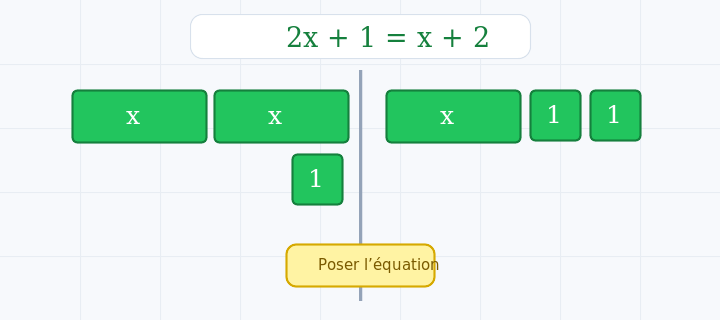
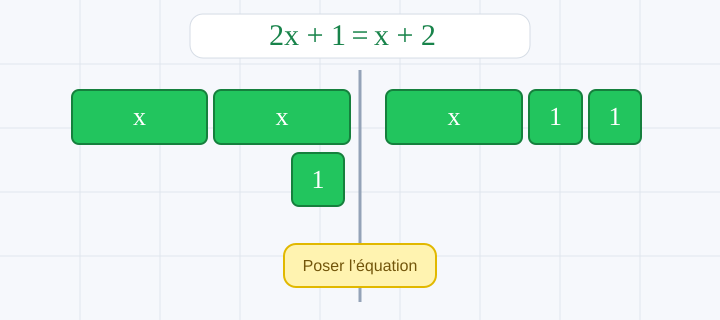
Remplacer les miniatures par des vues réelles

diff --git a/assets/js/catalogue-refonte-data.js b/assets/js/catalogue-refonte-data.js
@@ -161,7 +161,7 @@ window.MATHSGO_CATALOGUE = {
       "primaryGroup": "manipuler",
       "collections": ["tuiles-algebriques"],
       "tags": ["tuiles-algebriques", "equation", "premier-degre", "balance", "manipulation"],
-      "thumbnail": "assets/img/thumbnails/tuiles-algebriques/plateau-equations.png?v=1",
+      "thumbnail": "assets/img/thumbnails/tuiles-algebriques/plateau-equations.png?v=2",
       "cardDescription": "Poser puis résoudre une équation du premier degré en manipulant les deux membres."
     },
     "outils/detective_des_grandeurs_additive__1.pdf": { "primaryNotion": "schemas-barres", "collections": [], "tags": ["schema-barres", "resolution-problemes", "enquete"] },
@@ -262,7 +262,7 @@ window.MATHSGO_CATALOGUE = {
       "primaryGroup": "manipuler",
       "collections": [],
       "tags": ["statistiques", "mediane", "moyenne", "etendue", "donnees"],
-      "thumbnail": "assets/img/thumbnails/notions/stats-city.svg?v=1",
+      "thumbnail": "assets/img/thumbnails/notions/stats-city.png?v=2",
       "cardDescription": "Ranger et construire une ville de données pour travailler médiane, moyenne et étendue."
     },
     "outils/plateaux_manipulation/moyennes.html": {
@@ -278,7 +278,7 @@ window.MATHSGO_CATALOGUE = {
       "primaryGroup": "manipuler",
       "collections": [],
       "tags": ["numeration", "entiers", "valeur-position", "multiplier", "diviser"],
-      "thumbnail": "assets/img/thumbnails/numeration/glisse-entiers.svg?v=1",
+      "thumbnail": "assets/img/thumbnails/numeration/glisse-entiers.png?v=2",
       "cardDescription": "Faire glisser les chiffres dans le tableau de numération et visualiser les changements de valeur."
     },
     "outils/plateaux_manipulation/glisse_nombres_decimaux.html": {
@@ -286,7 +286,7 @@ window.MATHSGO_CATALOGUE = {
       "primaryGroup": "manipuler",
       "collections": [],
       "tags": ["numeration", "decimaux", "valeur-position", "dixiemes", "centiemes"],
-      "thumbnail": "assets/img/thumbnails/numeration/glisse-decimaux.svg?v=1",
+      "thumbnail": "assets/img/thumbnails/numeration/glisse-decimaux.png?v=2",
       "cardDescription": "Déplacer les chiffres de part et d’autre de la virgule dans un tableau de numération décimale."
     },
     "outils/plateaux_manipulation/numeration_decimale.html": {
@@ -294,7 +294,7 @@ window.MATHSGO_CATALOGUE = {
       "primaryGroup": "manipuler",
       "collections": [],
       "tags": ["numeration", "decimaux", "unites", "dixiemes", "centiemes", "fractions"],
-      "thumbnail": "assets/img/thumbnails/numeration/plateau-decimal.svg?v=1",
+      "thumbnail": "assets/img/thumbnails/numeration/plateau-decimal.png?v=2",
       "cardDescription": "Couper et fusionner unités, dixièmes et centièmes pour construire les écritures décimales et fractionnaires."
     },
     "outils/fabrication_materiel/numeration_decimale_maker.html": {
@@ -302,7 +302,7 @@ window.MATHSGO_CATALOGUE = {
       "primaryGroup": "generer",
       "collections": [],
       "tags": ["numeration", "decimaux", "materiel", "imprimer", "gabarit"],
-      "thumbnail": "assets/img/thumbnails/numeration/maker-decimal.svg?v=1",
+      "thumbnail": "assets/img/thumbnails/numeration/maker-decimal.png?v=2",
       "cardDescription": "Préparer des planches d’unités, dixièmes et centièmes personnalisées pour l’impression."
     },
     "auto/index.html": {
